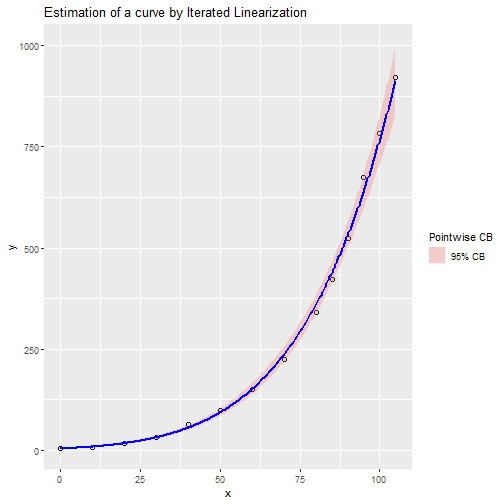
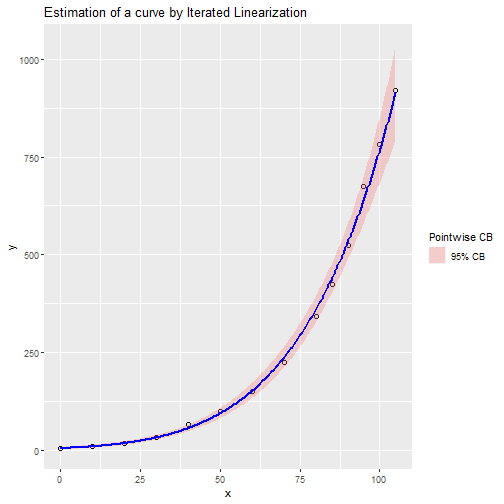
Final changes
Romoving two lines, generating new plots, adding Masaryk University

diff --git a/README.md b/README.md
@@ -3,7 +3,7 @@
 
 ## Optimal Estimation of Parameters by Iterated Linearization
 
-The original version of this software was written in R by Stanislav Zámečník, Zdeňka Geršlová and Vojtěch Šindlář in year 2021. The package is based on theoretical background of work of prof. Gejza Wimmer and afterwards implemented by mentioned authors. 
+The original version of this software was written in R by Stanislav Zámečník, Zdeňka Geršlová and Vojtěch Šindlář in year 2021. The package is based on thoretical backround of work of prof. Gejza Wimmer and afterwards implemented by meantioned authors. 
 Main features of package include:
 
 - estimation of parameters of nonlinear function by iterated linearization
@@ -11,11 +11,10 @@ Main features of package include:
   - extract confidence bands for set of points
   - confidence intervals for parameters 
   - extract summary of used model
-  - get covariance matrix for model parameters
-- plot the OEFPIL object in the following ways
+  - get covariance matrix for model parameters.
+- plot the OEFPIL object, when one is created in a different ways
   - plot of estimated curve 
   - plot of estimated curve with ggplot2 package
-  - plot of parameters with error bars with ggplot2 package
 - count orthogonal residuals for OEFPIL object
 - print out information about OEFPIL object
 - calculate estimates of parameters in Nanoindentation
@@ -23,7 +22,7 @@ Main features of package include:
 
 ## Installation
 
-You can install release from GitHub repository by:
+You can install release from Github repository by:
 
 ``` r
 devtools::install_github("stazam/OEFPIL-")
@@ -44,7 +43,7 @@ library(MASS)
 steamdata <- steam
 colnames(steamdata) <- c("x","y")
 k <- nrow(steamdata)
-CM <- diag(rep(5,2*k))
+CM <- diag(rep(10,2*k))
 ```
 
 Creating OEFPIL object which we want to work with
@@ -68,15 +67,15 @@ summary(st1)
 ## y ~ b1 * 10^(b2 * x/(b3 + x))
 ## 
 ##     Param Est         Std Dev   CI Bound 2.5 %   CI Bound 97.5 %
-## b1   4.487870        1.079683         2.371730          6.604011
-## b2   7.188155        1.319428         4.602123          9.774186
-## b3 221.837783       70.677909        83.311627        360.363940
+## b1   4.487870        1.526903         1.495196          7.480545
+## b2   7.188155        1.865953         3.530953         10.845356
+## b3 221.837783       99.953658        25.932214        417.743352
 ## 
 ##  Estimated covariance matrix: 
-##           b1        b2         b3
-## b1  1.165716  1.148097   67.15270
-## b2  1.148097  1.740891   92.31566
-## b3 67.152702 92.315659 4995.36683
+##            b1         b2        b3
+## b1   2.331432   2.296195  134.3054
+## b2   2.296195   3.481782  184.6313
+## b3 134.305405 184.631318 9990.7337
 ## 
 ##  Number of iterations: 10
 ```
